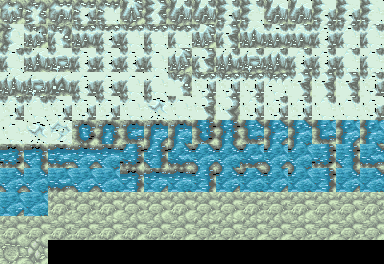
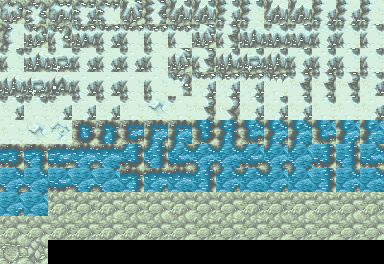
feat: Korea and the world open both ways from 1945, a softer last Roar of Time, no black flecks on later maps (1.26)
From 1945 on the Time Gate leads between Korea and the world at any
time, the era's quests done or not, and each line carries on where it
was left. Only the first trip out has the era card; after that the team
is back in the town it left, as on the way home. The next era still
waits for this one's quests.

The last quest's Dialga takes 25% with Roar of Time instead of 33%.
1919's and the Boss Tower's keep theirs.

The black in the tile sheets the maps of the 1950s and later are painted
with is gone: colour 0 on floors (Baengma, the Rock Cave), real black
dashes on walls (the Ice Cave, Seoul 1979) and a stray unpainted tile.
Sheets sharing those sets in earlier eras come out clean too.

Changed region(s): [[0.4062, 0.3636, 0.4375, 0.3939], [0.0938, 0.4545, 0.125, 0.4848]]

diff --git a/web/index.html b/web/index.html
@@ -278,7 +278,7 @@
         <li><b>놓친 전설</b>: 전설의 포켓몬을 그 시대에 동료로 맞지 못하면(만나지 못했거나 보내 주었으면), 다음 시대의 다른 던전에 다시 나타납니다. 그 던전의 마지막 층에서, 그 던전의 적과 같은 레벨로 기다려요. 또 놓치면 그다음 시대로 옮겨 갑니다. 전설이 없는 던전에만 나타나서, 자리가 모자라면 그다음 시대로 미뤄져요.</li>
         <li><b>던전</b>: 그래픽은 「포켓몬 불가사의 던전 파랑구조대」의 던전 지형과 포켓몬 스프라이트를 씁니다. 층마다 지형이 무작위로 바뀌어요.</li>
         <li>메인 퀘스트를 끝내면 광장의 <b>시간의 문</b>이 열리고 다음 시대로 넘어갑니다.</li>
-        <li><b>세계 모드</b>: 1945년 광복 뒤의 시간의 문에서 「세계로」를 고르면 1860년부터 1945년까지 세계 시대(청일 · 러일 전쟁, 제1 · 2차 세계 대전)를 여행합니다. 마을은 포켓몬스터 블랙의 실제 마을, 마지막 퀘스트는 큐레무 3페이즈 최종 결전이에요. 던전은 모두 <b>3층</b>이 끝이고, 3층의 퀘스트 보스는 <b>5세대(블랙)의 전설 · 준전설 · 환상의 포켓몬</b>(삼삼드래는 1945년에 한 번만 나오고, 강한 자리는 샹델라 · 타격귀 · 기가이어스 · 두빅굴 · 염무왕 · 대검귀 · 펜드라 · 액스라이즈와 2페이즈의 불비달마 · 불카모스, 남는 자리는 쉐이미 · 마나피)이고, 토네로스 · 볼트로스 · 랜드로스는 2페이즈에서 <b>영물폼</b>으로 바뀌며 모든 능력치가 20% 올라요. <b>엔딩</b>은 한국 이야기의 아르세우스(1979)와 세계 모드의 큐레무(1945)를 <b>모두</b> 쓰러뜨려야 열리고, 나중에 끝낸 쪽의 시간의 문에서 엔딩으로 갑니다.</li>
+        <li><b>세계 모드</b>: 1945년 이후 한국 시대의 시간의 문에서 「세계로」를 고르면 1860년부터 1945년까지 세계 시대(청일 · 러일 전쟁, 제1 · 2차 세계 대전)를 여행합니다. <b>퀘스트를 끝내지 않아도 언제든</b> 한국과 세계를 오갈 수 있고, 각자 멈춘 곳에서 이어집니다. 마을은 포켓몬스터 블랙의 실제 마을, 마지막 퀘스트는 큐레무 3페이즈 최종 결전이에요. 던전은 모두 <b>3층</b>이 끝이고, 3층의 퀘스트 보스는 <b>5세대(블랙)의 전설 · 준전설 · 환상의 포켓몬</b>(삼삼드래는 1945년에 한 번만 나오고, 강한 자리는 샹델라 · 타격귀 · 기가이어스 · 두빅굴 · 염무왕 · 대검귀 · 펜드라 · 액스라이즈와 2페이즈의 불비달마 · 불카모스, 남는 자리는 쉐이미 · 마나피)이고, 토네로스 · 볼트로스 · 랜드로스는 2페이즈에서 <b>영물폼</b>으로 바뀌며 모든 능력치가 20% 올라요. <b>엔딩</b>은 한국 이야기의 아르세우스(1979)와 세계 모드의 큐레무(1945)를 <b>모두</b> 쓰러뜨려야 열리고, 나중에 끝낸 쪽의 시간의 문에서 엔딩으로 갑니다.</li>
         <li><b>도감</b>: X 메뉴 → 도감. 전국 · 신오(4세대) · 하나(5세대) 순서로 보고, Z로 펄 도감과 블랙 도감 페이지를 바꿉니다. 만난 포켓몬은 발견, 동료가 되면 포획으로 기록돼요. 영어 모드에서는 분류와 설명도 영어로 나와요.</li>
       </ul>
       <div class="tip"><b>해전 (물 타입만 출전)</b>: 살수대첩, 기벌포, 흥화진, 진포, 한산도·명량·노량, 인천·대동강처럼 물 위에서 벌어지는 싸움에는 <b>물 타입 포켓몬만</b> 배에 오릅니다. 지도에서 해전을 고르면 팀과 동료 명부의 물 타입 목록이 열리고, 배에 태울 포켓몬을 <b>최대 3마리 직접 고릅니다</b>(고른 순서대로 앞장섬, 팀 먼저·레벨 높은 순·가나다 순 정렬). 2마리보다 적으면 수군이 물 포켓몬을 빌려줍니다. 첫 시대에서 리아코와 물짱이를 선물로 받아요.<br><b>전투 대형</b>: 마을이나 세계 지도 메뉴의 <b>해전 대형</b>에서 미리 3마리를 정해 두거나, 출전 목록에서 <b>이 대형으로 고정하고 출발!</b>을 누르면, 다음 해전부터는 고르지 않고 <b>바로 출격</b>할 수 있습니다. 팀이 물 타입 3마리일 때도 마찬가지입니다.<br><b>해전의 적 레벨</b>: 적과 보스는 팀이 아니라 <b>출전 파티의 최고 레벨</b>을 따라 <b>+3</b>(어려움 <b>+5</b>, 쉬움 +1)입니다. 수군이 빌려주는 포켓몬도 그 레벨로 옵니다.</div>
@@ -315,7 +315,7 @@
           <b>뇌격</b>: 붉은 칸에 번개가 떨어져요. <b>크로스썬더</b>: <b>표시 없이</b> 5턴 동안 무작위로 떨어져요. HP를 넉넉히 채워 두세요.
           <b>큐레무</b>는 1페이즈 큐레무, 2페이즈 블랙큐레무(궁극기 넷을 번갈아), 3페이즈 화이트큐레무(궁극기 <b>두 개를 동시에</b>)입니다.</li>
         <li><b>전설의 전용기</b>: 1페이즈에 한 번, 2페이즈에 두세 번 씁니다. 체력이 그 고비에 닿으면 전용기를 쓰기 전까지는 더 깎이지 않아요.
-          <b>디아루가 · 시간의 포효</b>: 한 턴 기를 모은 뒤 시간을 되감아 <b>10초 전의 체력</b>으로 돌아가고, 우리 편 모두의 <b>HP를 최대치의 33%</b> 깎고, <b>입힌 피해만큼 더 회복</b>합니다 (피할 수 없으니 미리 회복하고, 반동으로 쉬는 틈을 노리세요). 1.9부터 처음 모습과 오리진폼 모두 <b>두 배로 자주</b> 씁니다.
+          <b>디아루가 · 시간의 포효</b>: 한 턴 기를 모은 뒤 시간을 되감아 <b>10초 전의 체력</b>으로 돌아가고, 우리 편 모두의 <b>HP를 최대치의 33%</b>(마지막 퀘스트의 디아루가는 <b>25%</b>) 깎고, <b>입힌 피해만큼 더 회복</b>합니다 (피할 수 없으니 미리 회복하고, 반동으로 쉬는 틈을 노리세요). 1.9부터 처음 모습과 오리진폼 모두 <b>두 배로 자주</b> 씁니다.
           <b>펄기아 · 공간절단</b>: 공간이 찢어지며 <b>싸움터가 한 겹씩 좁아지고</b>(두 번까지) 바닥 곳곳의 <b>길고 많은 틈</b>에서 공격이 솟아오릅니다. 펄기아는 <b>하이드로펌프</b>도 씁니다.
           <b>기라티나 · 섀도다이브</b>: <b>어둠 속으로 사라졌다가</b> 우리 포켓몬의 <b>그림자 밑에서 튀어나와</b> 공격합니다. 그림자가 술렁이는 자리에서 벗어나세요. 첫 모습부터 <b>그림자 폭풍 · 대지의힘 · 용성군 · 파동탄 · 원시의힘</b>을 번갈아 예고하고, 섀도다이브와 <b>용의파동</b>(여덟 방향 파동)도 씁니다.
           <b>그란돈 · 단애의 칼</b>, <b>가이오가 · 근원의 파동</b> (1950 서울 시가전, 모든 능력치 +25%): 땅이 갈라진 줄기를 따라 바위 칼날이 솟거나, 여덟 방향으로 파동이 퍼집니다.
@@ -429,7 +429,7 @@
         <li><b>Missed legends</b>: a legendary Pokémon that did not join you in its era (never met, or let go) comes back in another dungeon of the next era, on its last floor, at the level of that dungeon's foes. Miss it again and it moves on to the era after. It only comes to a dungeon with no legend of its own, so when there is no free one it waits for the next era.</li>
         <li><b>Dungeons</b> use the terrain and Pokémon sprites of Pokémon Mystery Dungeon: Blue Rescue Team. Floors change every time.</li>
         <li>Finish the main quest and the <b>Time Gate</b> in the square opens to the next era.</li>
-        <li><b>World line</b>: after liberation in 1945, choose "Out into the world" at the Time Gate to travel the world's eras from 1860 to 1945 (the Sino-Japanese and Russo-Japanese wars, both world wars). Its towns are Pokémon Black's real towns, and its last quest is the three-phase battle with Kyurem. Its dungeons all end on <b>floor 3</b>, where a quest's boss is one of <b>Pokémon Black's legendary, sub-legendary or mythical Pokémon</b> (Hydreigon just once, in 1945; the other strong quests have Chandelure, Sawk, Gigalith, Seismitoad, Emboar, Samurott, Scolipede and Haxorus, and Darmanitan and Volcarona in two phases; Shaymin and Manaphy the rest); Tornadus, Thundurus and Landorus take their <b>Therian Forme</b> in the second phase, every stat 20% higher. The <b>ending</b> opens once you have beaten <b>both</b> Arceus on the Korean line (1979) and Kyurem on the world line (1945), at the Time Gate of whichever you finish last.</li>
+        <li><b>World line</b>: from 1945 on, choose "Out into the world" at a Korean era's Time Gate to travel the world's eras from 1860 to 1945 (the Sino-Japanese and Russo-Japanese wars, both world wars). You can cross between Korea and the world <b>at any time, quests done or not</b>, and each carries on where you left it. Its towns are Pokémon Black's real towns, and its last quest is the three-phase battle with Kyurem. Its dungeons all end on <b>floor 3</b>, where a quest's boss is one of <b>Pokémon Black's legendary, sub-legendary or mythical Pokémon</b> (Hydreigon just once, in 1945; the other strong quests have Chandelure, Sawk, Gigalith, Seismitoad, Emboar, Samurott, Scolipede and Haxorus, and Darmanitan and Volcarona in two phases; Shaymin and Manaphy the rest); Tornadus, Thundurus and Landorus take their <b>Therian Forme</b> in the second phase, every stat 20% higher. The <b>ending</b> opens once you have beaten <b>both</b> Arceus on the Korean line (1979) and Kyurem on the world line (1945), at the Time Gate of whichever you finish last.</li>
         <li><b>Pokédex</b>: X menu → Pokédex. Browse the national, Sinnoh (Gen 4) and Unova (Gen 5) orders; Z switches between a Pokémon's Pearl and Black pages. Pokémon you meet are recorded as seen, and as caught once they join. In English, categories and entries are in English too.</li>
       </ul>
       <div class="tip"><b>Naval battles (Water types only)</b>: fights on the water (Salsu, Gibeolpo, Heunghwajin, Jinpo, Hansan, Myeongnyang, Noryang, Incheon, the Taedong) only take <b>Water-type Pokémon</b> aboard. Choosing a naval battle on the map opens a list of the Water types in your team and roster: <b>pick up to three</b> yourself (they lead in the order picked; sort by team, level or A–Z). Pick fewer than two and the navy lends the rest. You get Totodile and Mudkip in the first era.<br><b>Formation</b>: set three beforehand under <b>Naval formation</b> in the town's or the world map's menu, or press <b>Fix this crew and set out!</b> on the crew list, and from the next naval battle on you can <b>set out right away</b> without picking. The same goes for a team of three Water types.<br><b>Foe levels at sea</b>: foes and bosses follow <b>the best level of the crew that sets out</b>, not your team: <b>+3</b> (Hard <b>+5</b>, Easy +1). Sailors the navy lends come at that level too.</div>
@@ -466,7 +466,7 @@
           <b>Bolt Strike</b>: lightning on the red tiles. <b>Fusion Bolt</b>: lightning at random for 5 turns with <b>no mark at all</b>, so keep your HP topped up.
           <b>Kyurem</b> is Kyurem, then Black Kyurem (all four ultimates by turns), then White Kyurem (<b>two ultimates at once</b>).</li>
         <li><b>Signature moves</b>: once in the first phase, two or three times in the second. When its HP reaches the mark, it can't be worn further down until the move has gone off.
-          <b>Dialga · Roar of Time</b>: after a turn building it up, time turns back to <b>its HP of 10 seconds before</b>, your whole team loses <b>33% of its max HP</b>, and it <b>heals by the damage dealt</b> as well (no dodging it: heal beforehand, and hit it while it recharges). Since 1.9 Dialga uses it <b>twice as often</b>, in both its forms.
+          <b>Dialga · Roar of Time</b>: after a turn building it up, time turns back to <b>its HP of 10 seconds before</b>, your whole team loses <b>33% of its max HP</b> (<b>25%</b> from the last quest's Dialga), and it <b>heals by the damage dealt</b> as well (no dodging it: heal beforehand, and hit it while it recharges). Since 1.9 Dialga uses it <b>twice as often</b>, in both its forms.
           <b>Palkia · Spacial Rend</b>: space tears, the <b>arena closes in a ring</b> (twice at most) and attacks burst out of <b>many long rifts</b> all over the floor. Palkia also uses <b>Hydro Pump</b>.
           <b>Giratina · Shadow Force</b>: it <b>vanishes into the dark</b> and bursts <b>out of the shadow</b> of one of your team; step off the stirring shadow. From its first form it takes turns with <b>Shadow Storm, Earth Power, Draco Meteor, Aura Sphere and Ancient Power</b>, and uses Shadow Force and <b>Dragon Pulse</b> (waves in eight directions).
           <b>Groudon · Precipice Blades</b> and <b>Kyogre · Origin Pulse</b> (Seoul, 1950, +25% to every stat): stone blades rise along fissures, or waves spread out in eight directions.

diff --git a/web/js/town.js b/web/js/town.js
@@ -1118,15 +1118,22 @@ export class Town {
     c.moveTo(x - 6, y - 6); c.lineTo(x - 2, y - 10); c.lineTo(x + 3, y - 8); c.moveTo(x - 2, y - 10); c.lineTo(x - 1, y - 14); c.moveTo(x + 3, y - 8); c.lineTo(x + 7, y - 11);
     c.stroke();
   }
+  // from 1945 on the way between Korea and the world stays open, this era's quests done or not (1.26)
+  get crossing() { return isWorld() || this.era.year >= WORLD_FROM; }
   gateTalk() {
-    if (!eraComplete()) return say([{ who: 'narr', text: tr('희미하게 빛나는 시간의 문이다. 이 시대의 소원을 이루면 열릴 것 같다.', 'A faintly glowing Time Gate. It should open once this era\'s wish comes true.') }]);
+    if (!eraComplete() && !this.crossing) return say([{ who: 'narr', text: tr('희미하게 빛나는 시간의 문이다. 이 시대의 소원을 이루면 열릴 것 같다.', 'A faintly glowing Time Gate. It should open once this era\'s wish comes true.') }]);
     // the choices: on the Korean line the next era and, from 1945 on, the world; on the world line its next era and the
     // way back to Korea. The ending waits at the end of both lines until both are seen through, Arceus in 1979 and
     // Kyurem in 1945 (1.13, quests.js endingOpen), and is offered at whichever end the team stands. Nothing else leads
     // to it: since 1.15 a journey that opened it with Arceus alone before 1.13 goes out to Kyurem too
     const opts = [], next = ERAS[S.era + 1], ending = endingOpen();
     let text;
-    if (isWorld()) {
+    if (!eraComplete()) { // the next era waits for this one's quests: only the way across
+      if (isWorld()) opts.push([tr('한국으로 돌아가기', 'Back to Korea'), () => G.toKorea()]);
+      else opts.push([tr('세계로 (1860 ~ 1945)', 'Out into the world (1860–1945)'), () => G.toWorld()]);
+      text = isWorld() ? tr('이 시대의 소원은 아직 남았지만, 한국으로는 언제든 돌아갈 수 있어. 다시 오면 여기서부터 이어 가!', 'This era\'s wish is still waiting, but we can go back to Korea any time, and carry on from here when we return!')
+        : tr('이 시대의 소원은 아직 남았지만, 바다 건너 세계로는 언제든 나갈 수 있어. 돌아오면 여기서부터 이어 가!', 'This era\'s wish is still waiting, but we can go out across the sea into the world any time, and carry on from here when we return!');
+    } else if (isWorld()) {
       if (S.era < ERAS.length - 1) opts.push([tr(`${next.year}년으로`, `On to ${next.year}`), () => G.nextEra()]);
       else if (ending) opts.push([tr('엔딩으로', 'To the ending'), () => G.goEnding()]);
       opts.push([tr('한국으로 돌아가기', 'Back to Korea'), () => G.toKorea()]);
@@ -1365,7 +1372,7 @@ export class Town {
     // on a Black town's raised ground the gate stands up the picture with the people on it (liftAt): up to 1.13 it was
     // drawn at its tiles' flat place, three tiles below where it opens in Compiègne, Verdun and Stalingrad
     const lift = Math.round(this.liftAt(this.gate.tx + 0.5, this.gate.ty + 0.5));
-    const x = this.gate.tx * TILE, y = this.gate.ty * TILE - lift, open = eraComplete();
+    const x = this.gate.tx * TILE, y = this.gate.ty * TILE - lift, open = eraComplete() || this.crossing;
     const cx = x + TILE, cy = y + TILE;
     c.save();
     c.fillStyle = 'rgba(0,0,0,0.25)'; c.beginPath(); c.ellipse(cx, cy + 14, 22, 7, 0, 0, Math.PI * 2); c.fill();

diff --git a/web/js/content_modern.js b/web/js/content_modern.js
@@ -199,6 +199,9 @@ const FINALE = [
 function guardian(b, o) {
   return finale(b, { hp: b.hp * 1.3, atk: b.atk * 1.3, pace: 1.5, lv: 180, lvMin: 70, lvUp: 2, lvCap: 180, noWander: true, ...o });
 }
+// the last quest's Dialga: its Roar of Time takes a quarter of everyone's HP (1.26); 1919's and the Boss Tower's keep a third
+const ROAR_LAST = { ...SIG.roar, cut: 0.25 };
+const lastRoar = (sig) => sig && { ...sig, use: sig.use.map((u) => (u === SIG.roar ? ROAR_LAST : u)) };
 export function addFinale(bossOf) {
   FINALE[0].boss = guardian(bossOf(484), {
     say: [
@@ -207,7 +210,8 @@ export function addFinale(bossOf) {
       { who: 'partner', text: K('예전보다 훨씬 강해졌어! 공간절단도 더 자주 날아올 거야. 붉은 칸을 잘 보자!', 'It\'s far stronger than before! Spacial Rend will come more often too. Watch the red tiles!') }],
     after: [{ who: 484, name: K('펄기아', 'Palkia'), text: K('…좋다. 공간은 너희에게 길을 열겠다. 이제 시간의 주인에게 가거라.', '...Very well. Space opens the way for you. Now go to the master of time.') }],
     join: K('펄기아가 진주처럼 빛나는 몸을 낮추었다. 함께 가고 싶어 한다!', 'Palkia lowers its pearl-bright body. It wants to come along!') });
-  FINALE[1].boss = guardian(bossOf(483), {
+  const dialga = bossOf(483);
+  FINALE[1].boss = guardian({ ...dialga, sig: lastRoar(dialga.sig), revive: { ...dialga.revive, sig: lastRoar(dialga.revive.sig) } }, {
     say: [
       { who: 'narr', text: K('더 높은 곳, 시간이 거꾸로 흐르는 틈. 금강석처럼 빛나는 디아루가가 길을 막아섰다!', 'Higher up, in a rift where time flows backwards, Dialga shines like adamant and blocks the way!') },
       { who: 483, name: K('디아루가', 'Dialga'), text: K('그라아아…! 시간의 끝까지 걸어온 자들이여. 그 걸음이 진짜였는지 시간의 포효로 시험하겠다!', 'Grahhh...! You who walked to the end of time. I will test with the Roar of Time whether your steps were true!') },

diff --git a/web/js/main.js b/web/js/main.js
@@ -53,15 +53,18 @@ G.nextEra = () => fadeTo(() => {
   setScene(new EraCard());
 }, '#fff', 1.2);
 G.goEnding = () => fadeTo(() => setScene(new Ending()), '#fff', 0.8);
-// The world line (content_world.js): from a cleared Korean era from 1945 on, out into the world where the team left it
-// (its first era, 1860, the first time), and back from the world to the Korean era it came from. Each line keeps
-// its place (S.koreaAt, S.worldAt) while the team is on the other.
+// The world line (content_world.js): from a Korean era from 1945 on, its quests done or not (1.26), out into the world
+// where the team left it (its first era, 1860, the first time), and back from the world to the Korean era it came from.
+// Each line keeps its place (S.koreaAt, S.worldAt) while the team is on the other. Only the first way out has the card
+// and the era's opening words: after that the team is back in the town it left, as it is on the way back to Korea.
 const place = () => ({ era: S.era, step: S.step, eraClear: S.eraClear, townKind: S.townKind });
 G.toWorld = () => fadeTo(() => {
-  G.cardFrom = ERAS[S.era].year;
+  const from = ERAS[S.era].year, been = S.worldAt;
   S.koreaAt = place();
-  const w = S.worldAt || { era: KOREA_LAST + 1, step: 0, eraClear: false };
+  const w = been || { era: KOREA_LAST + 1, step: 0, eraClear: false };
   Object.assign(S, { era: w.era, step: w.step, eraClear: w.eraClear, night: false, lastNode: 'town', townKind: 1, townPos: null });
+  if (been) return G.goTown();
+  G.cardFrom = from;
   save();
   setScene(new EraCard());
 }, '#fff', 1.2);

diff --git a/web/js/content_wkit.js b/web/js/content_wkit.js
@@ -1,5 +1,5 @@
 // The world line (content_world.js): helpers for its eras, its legends from Pokémon Black and its quest items.
-// From 1945 on, a cleared Korean era's Time Gate can lead out into the world (town.js gateTalk): from the Convention
+// From 1945 on, a Korean era's Time Gate can lead out into the world, its quests done or not (town.js gateTalk): from the Convention
 // of Peking to the end of the Second World War, each era hub one of Unova's real towns drawn from Pokémon Black
 // (town bw:, tools/bw/render.py) standing in for a place of the time, its map one of the regional world maps
 // (era map:, tools/geo/worldmaps.py). The rules are the story's (levels five to seven over the team's best, Hard's

diff --git a/web/js/content.js b/web/js/content.js
@@ -971,7 +971,7 @@ const bossOf = (sp) => ERAS.flatMap((e) => Object.values(e.dungeons).flatMap((d)
 addFinale(bossOf);
 addTower(ERA_1979, bossOf);
 // the world line (content_world.js) follows the Korean line's last era (1979) in ERAS: an era past KOREA_LAST is a
-// world era, entered from a cleared Korean era's Time Gate from 1945 on (town.js gateTalk)
+// world era, entered from a Korean era's Time Gate from 1945 on (town.js gateTalk)
 export const KOREA_LAST = ERAS.length - 1;
 ERAS.push(...WORLD);
 ERAS.forEach((e, i) => { e.id = i + 1; });

diff --git a/tools/pmd/extract_pmd.py b/tools/pmd/extract_pmd.py
@@ -189,6 +189,30 @@ def tileset(dun, tid):
     return tiles, cel, pals, cex
 
 
+# The sets the maps of the 1950s and later are painted with that have black in their chunks: floors textured with colour 0
+# (transparent on the DS, black here: 15% of set 2's floor), walls dashed with a real black, a stray unpainted tile. Over a map
+# they read as holes. `extract_pmd.py <rom> <assets> flecks` paints just these again.
+FLECK_SETS = (2, 18, 19, 29, 40, 50)
+
+
+def fill_flecks(img):
+    """Every black pixel of a chunk takes the colour of the nearest one that is not; a chunk black all over stays black."""
+    w, h = img.size
+    px = img.load()
+    lit = [(x, y) for y in range(h) for x in range(w) if max(px[x, y][:3]) >= 14]
+    if not lit:
+        return img
+    seen = set(lit)
+    for x, y in lit:  # breadth first: the list grows as it is walked, the pixel above a dash first
+        for dx, dy in ((0, 1), (1, 0), (-1, 0), (0, -1)):
+            q = (x + dx, y + dy)
+            if 0 <= q[0] < w and 0 <= q[1] < h and q not in seen:
+                seen.add(q)
+                px[q] = px[x, y]
+                lit.append(q)
+    return img
+
+
 def chunk_img(tiles, cel, pals, c):
     img = Image.new('RGBA', (24, 24), (0, 0, 0, 255))
     for k in range(9):
@@ -197,11 +221,11 @@ def chunk_img(tiles, cel, pals, c):
     return img
 
 
-def export_tiles(fs, out_dir):
+def export_tiles(fs, out_dir, only=None):
     dun = fs['dungeon']
     os.makedirs(os.path.join(out_dir, 'pmd', 'tiles'), exist_ok=True)
     ids = []
-    for tid in range(100):
+    for tid in only or range(100):
         ts = tileset(dun, tid)
         if not ts:
             continue
@@ -222,7 +246,8 @@ def export_tiles(fs, out_dir):
         cols = 16
         atlas = Image.new('RGBA', (cols * 24, ((len(used) + cols - 1) // cols) * 24), (0, 0, 0, 255))
         for k, c in enumerate(used):
-            atlas.paste(chunk_img(tiles, cel, pals, c), ((k % cols) * 24, (k // cols) * 24))
+            chunk = chunk_img(tiles, cel, pals, c)
+            atlas.paste(fill_flecks(chunk) if tid in FLECK_SETS else chunk, ((k % cols) * 24, (k // cols) * 24))
         atlas = atlas.convert('RGB').quantize(colors=256, method=Image.Quantize.FASTOCTREE, dither=Image.Dither.NONE)
         atlas.save(os.path.join(out_dir, 'pmd', 'tiles', f'{tid}.png'), optimize=True)
         meta = {'cols': cols, 'wall': look[0:256], 'water': look[256:512], 'floor': look[512:768], 'extra': look[768:]}
@@ -286,6 +311,8 @@ if __name__ == '__main__':
         result['kao'] = export_portraits(fs, out)
     if what in ('tiles', 'all'):
         result['tiles'] = export_tiles(fs, out)
+    if what == 'flecks':
+        export_tiles(fs, out, FLECK_SETS)
     if what == 'preview':
         preview(fs, sys.argv[4])
     index_path = os.path.join(out, 'data', 'pmd.json')

diff --git a/README.md b/README.md
@@ -145,8 +145,8 @@ adb install -r mobile\android\app\build\outputs\apk\debug\app-debug.apk
 
 **1860년 베이징 조약부터 1945년 제2차 세계 대전의 끝까지, 세계사 21개 시대.** 한국 이야기와 따로 이어지는 두 번째 여행입니다.
 
-- **들어가기**: 1945년 광복 뒤, 한국 시대의 시간의 문에서 **「세계로」**를 고릅니다. 처음 들어가면 1860년부터 시작합니다.
-- **한국과 오가기**: 세계 시대의 시간의 문에서는 언제든 **「한국으로 돌아가기」**를 고를 수 있습니다. 한국 이야기와 세계 이야기는 각자 멈춘 곳을 기억해서, 다시 넘어가면 떠났던 시대부터 이어집니다. 새 여행을 시작하면 세계 모드도 1860년부터 다시 시작합니다(1.11에서는 게임을 끄지 않고 새 여행을 시작하면 앞 여행의 위치를 물려받아, 세계 모드가 1915년부터 열리거나 새 챌린지가 전멸해도 끝나지 않았습니다).
+- **들어가기**: 1945년 이후 한국 시대의 시간의 문에서 **「세계로」**를 고릅니다. 시대 퀘스트를 끝내지 않아도 됩니다(1.26). 처음 들어가면 1860년부터 시작합니다.
+- **한국과 오가기**: 세계 시대의 시간의 문에서는 퀘스트를 끝내지 않아도 언제든 **「한국으로 돌아가기」**를 고를 수 있습니다. 한국 이야기와 세계 이야기는 각자 멈춘 곳을 기억해서, 다시 넘어가면 떠났던 시대부터 이어집니다. 새 여행을 시작하면 세계 모드도 1860년부터 다시 시작합니다(1.11에서는 게임을 끄지 않고 새 여행을 시작하면 앞 여행의 위치를 물려받아, 세계 모드가 1915년부터 열리거나 새 챌린지가 전멸해도 끝나지 않았습니다).
 - **난이도**: 처음부터 적이 내 팀에서 가장 높은 레벨보다 5~7 레벨 높고, 초반 배려가 없습니다. 어려움(+25%)과 챌린지(전멸하면 여행이 끝남) 규칙도 그대로입니다.
 - **마을**: 그 시대의 도시를 「포켓몬스터 블랙」의 실제 마을 11곳 가운데 하나로 그렸습니다. 롬의 지도 · 건물 · 이동 데이터를 그대로 읽어서 걸을 수 있는 곳이 원작과 같습니다. 1.12부터 마을 밖(다른 도로의 구역, 걸어서 닿을 수 없는 빈터)은 어둡게 그려서 갈 수 있는 곳이 한눈에 보입니다. 1.13부터 마을의 포켓몬은 서로 **두 칸 이상** 떨어져 서고, 서 있거나 돌아다니는 자리 옆으로 길이 **두 칸 폭**은 남도록 비켜 섭니다(1.12까지는 자리가 모자라면 시간의 문 둘레에 몰려 서서, 좁은 바닷가 마을에서는 길을 막기도 했습니다). 어느 마을에서든 사람이 길을 끊거나 두 칸 길을 한 칸으로 좁히지 않습니다.
 - **세계 지도**: Natural Earth 지도 데이터로 그린 동아시아 · 유럽 · 태평양 지도입니다.
@@ -227,7 +227,7 @@ adb install -r mobile\android\app\build\outputs\apk\debug\app-debug.apk
 - **테오키스**: 노말폼으로 싸우다 체력이 반 아래로 내려가면 **어택폼**으로, 쓰러뜨리면 **스피드폼**으로 다시 일어납니다 (공격이 잘 맞지 않음).
 - **디아루가(1919) · 기라티나(1940) · 펄기아(1945)**: 쓰러뜨리면 **오리진폼**으로 변해 2페이즈를 시작합니다. 1.7에서 이 셋과 **뮤츠**는 **체력 +30% · 공격 +15%**로 강해졌습니다(아르세우스는 1.5의 +10% 그대로).
 - **전설의 전용기**: 1페이즈에 한 번, 2페이즈에 두세 번 씁니다. 체력이 그 고비에 닿으면 전용기를 쓰기 전까지는 더 깎이지 않습니다.
-  - **디아루가 · 시간의 포효**: 한 턴 기를 모은 뒤 시간을 되감아 **10초 전의 체력**으로 돌아가고, 우리 편 모두의 HP를 최대치의 **33%** 깎으며(1.16까지 20%), 그 피해만큼 체력을 더 회복합니다(1.17). 그다음 턴은 반동으로 쉽니다(빈틈). 1.9부터 처음 모습과 오리진폼 **모두 두 배로 자주** 씁니다 (1919년: 처음 모습 2번 + 오리진폼 4~6번, 천관산: 4번 + 6~8번, 보스 탑: 1919년과 같음).
+  - **디아루가 · 시간의 포효**: 한 턴 기를 모은 뒤 시간을 되감아 **10초 전의 체력**으로 돌아가고, 우리 편 모두의 HP를 최대치의 **33%** 깎으며(1.16까지 20%, 마지막 퀘스트의 디아루가는 1.26부터 25%), 그 피해만큼 체력을 더 회복합니다(1.17). 그다음 턴은 반동으로 쉽니다(빈틈). 1.9부터 처음 모습과 오리진폼 **모두 두 배로 자주** 씁니다 (1919년: 처음 모습 2번 + 오리진폼 4~6번, 천관산: 4번 + 6~8번, 보스 탑: 1919년과 같음).
   - **펄기아 · 공간절단**: 공간이 찢어지며 싸움터가 바깥부터 한 겹씩 **좁아지고**(두 번까지), 바닥 곳곳의 **더 길고 많은 틈**에서 공격이 솟아오릅니다(1.7에서 피해도 0.32 → 0.42). 펄기아는 기술로 **하이드로펌프**도 씁니다.
   - **기라티나 · 섀도다이브**: **어둠 속으로 사라졌다가** 우리 포켓몬의 **그림자 밑에서 튀어나와** 공격합니다. 악 타입에 맞서 격투 기술 **파동탄**도 씁니다. 1.7부터 첫 모습에서 **그림자 폭풍 · 대지의힘 · 용성군 · 파동탄 · 원시의힘**을 번갈아 예고하고, 섀도다이브와 **용의파동**(여덟 방향 파동) 두 전용기를 씁니다.
   - **그란돈 · 단애의 칼 / 가이오가 · 근원의 파동** (1950 서울 시가전의 보스, 1.8부터 모든 능력치 +25%): 갈라진 땅을 따라 바위 칼날이 솟거나, 여덟 방향으로 파동이 퍼집니다. 원래 예고 공격은 대지의 힘 · 하이드로펌프로 이름이 바뀌었습니다.
@@ -319,6 +319,12 @@ adb install -r mobile\android\app\build\outputs\apk\debug\app-debug.apk
 - 방장의 화면과 소리가 친구에게 실시간으로 전송됩니다. 던전에서는 친구가 파트너(P2)와 세 번째 동료(P3)를 직접 조종합니다 (방향키 이동, Z 공격, QWER 기술, A 쉬기). 최대 2명까지 참가할 수 있습니다.
 - 친구가 나가면 그 포켓몬은 다시 자동으로 움직입니다. 저장은 방장의 게임에만 남습니다.
 - WebRTC(PeerJS 공개 서버)로 연결하므로 두 사람 모두 인터넷이 필요합니다. 회사·학교처럼 방화벽이 강한 네트워크에서는 연결이 안 될 수 있습니다.
+
+### 바뀐 점 (1.26)
+
+- **한국과 세계를 자유롭게**: 1945년부터는 시대 퀘스트를 끝내지 않아도 시간의 문에서 언제든 세계로 나갈 수 있고, 세계 시대에서도 언제든 한국으로 돌아올 수 있습니다. 두 번째부터는 시대 소개 없이 멈췄던 마을로 바로 돌아갑니다. 다음 시대로 가는 길은 지금처럼 그 시대의 퀘스트를 끝내야 열립니다.
+- **마지막 퀘스트의 디아루가**: 시간의 포효로 깎이는 HP를 33%에서 25%로 낮췄습니다. 1919년과 보스 탑의 디아루가는 그대로입니다.
+- **맵의 검은 점**: 백마고지 · 무너진 산의 바위굴의 바닥, 만년 얼음굴의 벽, 1979년 서울 등 1950년대 이후의 맵에 남아 있던 검은 점을 지웠습니다. 같은 그림을 쓰는 다른 시대의 맵도 함께 깨끗해집니다.
 
 ### 바뀐 점 (1.25)
 
@@ -480,11 +486,12 @@ docs/screenshots/       README 스크린샷
   - Tab tags the next teammate in; A (hold) rests; J opens and closes the quest list.
   - P opens the companion roster outside dungeons: search it (name, type, dex number), sort it, and swap anyone into any team slot; 1/2/3 set the game speed.
   - The mouse picks places on the world map, dialogue choices and menu rows; dragging or the wheel scrolls the map.
-- **World line (1860–1945)**: after liberation, a Korean era's Time Gate offers "To the world"; a world era's Time Gate leads back to Korea at any time, and each line resumes where it was left. Foes start 5 to 7 levels above your strongest Pokémon, and every town is one of Pokémon Black's eleven towns drawn from the ROM's maps (what lies outside the town is drawn dim since 1.12). Bosses in **bold** are legendary and mythical Pokémon, the others Unova's strongest and Hydreigon (600-total); (optional) marks a legend's lair off the main quest.
+- **World line (1860–1945)**: from 1945 on, a Korean era's Time Gate offers "To the world" and a world era's leads back to Korea, at any time and with the era's quests done or not; each line resumes where it was left. Foes start 5 to 7 levels above your strongest Pokémon, and every town is one of Pokémon Black's eleven towns drawn from the ROM's maps (what lies outside the town is drawn dim since 1.12). Bosses in **bold** are legendary and mythical Pokémon, the others Unova's strongest and Hydreigon (600-total); (optional) marks a legend's lair off the main quest.
   - From the Convention of Peking to the Russo-Japanese War: 1860 Peking (Opelucid City): the Burning Yuanmingyuan, the Ussuri Frontier: **Shaymin**, **Virizion** (two phases) · 1894 Weihaiwei (Undella Town): the waters off Pungdo and the Battle of the Yellow Sea (naval): **Manaphy**, Seismitoad · 1904 Port Arthur (Driftveil City): Chemulpo and Tsushima (naval), 203 Meter Hill: Samurott, **Terrakion** (two phases), **Thundurus** (Therian Forme).
   - The First World War: 1914 Sarajevo (Nacrene City): Scolipede, **Shaymin** · 1914 the Marne, Paris (Nimbasa City): **Keldeo**, **Shaymin** · 1915 Gallipoli (Nuvema Town): **Manaphy**, Gigalith · 1916 Verdun and the Somme (Icirrus City): **Cobalion** (two phases), **Genesect** · 1916 Jutland, Scapa Flow (Driftveil City): **Tornadus** (Therian Forme), Chandelure · 1918 the Armistice, Compiègne (Accumula Town): **Virizion** (two phases), **Victini**, **Mew** (optional) · 1919 the Paris Peace Conference, Versailles (Striaton City): **Meloetta**, **Shaymin**.
   - The Second World War: 1939 Danzig (Nacrene City): Emboar, **Cobalion** (two phases) · 1940 Dunkirk (Driftveil City): Sawk, **Keldeo** (two phases), **Phione** (optional) · 1940 the Blitz, London (Mistralton City): **Tornadus** (Therian Forme), and **Reshiram** in a town battle, rising twice · 1941 Moscow (Opelucid City): **Landorus** (Therian Forme), Darmanitan (two phases) · 1942 Pearl Harbor and Midway, Honolulu (Undella Town): **Manaphy**, Volcarona (two phases) · 1942 Leningrad (Nacrene City): Haxorus, **Meloetta** (two phases) · 1942 El Alamein, Alexandria (Undella Town): **Landorus** (Therian Forme), **Victini** (two phases) · 1943 Stalingrad and Kursk (Icirrus City): **Terrakion** (two phases), **Genesect** (two phases) · 1944 Normandy (Nuvema Town): **Zekrom**, rising twice, Samurott · 1944 Leyte Gulf, Tacloban (Undella Town): **Thundurus** (Therian Forme), **Manaphy** · 1945 Berlin (Lacunosa Town): Hydreigon, and the last quest, **Kyurem** in three phases (Black and White Kyurem).
 - **Features**:
+  - 1.26: from 1945 on the Time Gate leads between Korea and the world at any time, quests done or not, and back into the town you left; the last quest's Dialga takes 25% with its Roar of Time instead of 33%; the black flecks on the maps of the 1950s and later are gone.
   - 1.25: Rayquaza has every stat 35% higher and a third phase built on Dragon Ascent, walls of wind that fly in tile by tile with a gap to reach; when it falls the team is restored and Deoxys (HP +40%) comes down in the same place. Hydreigon is a boss only once, in 1945; Chandelure, Sawk, Gigalith, Seismitoad, Emboar, Samurott, Scolipede and Haxorus took its quests, and Darmanitan (Zen Mode: Fire and Psychic, with Psychic moves) and Volcarona fight in two phases. Cobalion, Terrakion and Virizion fight in two phases in both their quests, every stat 20% higher. The team's HP panel is 20% larger, the blue mark over teammates is gone, Steel and Poison types can't be poisoned, and Reshiram, Zekrom and Kyurem are now said to rise twice, as they do.
   - 1.24: Past journeys sync safely: a failed renaming no longer empties a good cloud copy, a journey that did not fit comes down once there is room, an upload Drive refused no longer reads as up to date, a journey taken back no longer returns through a duplicate, and taking another device's new journey with a full list no longer drops an unrelated one. Faster loading: a town's picture and people come together, Continue's town starts loading behind the title, and several Past journeys come down at once. A town battle no longer starts the team behind a rail or a house, or two members on one tile in a dead end.
   - 1.23: the battle screen's move list and message log are larger again, at 75% of their 1.21 size each way (1.22 had made them too small to read). The team panel stays as in 1.22.
